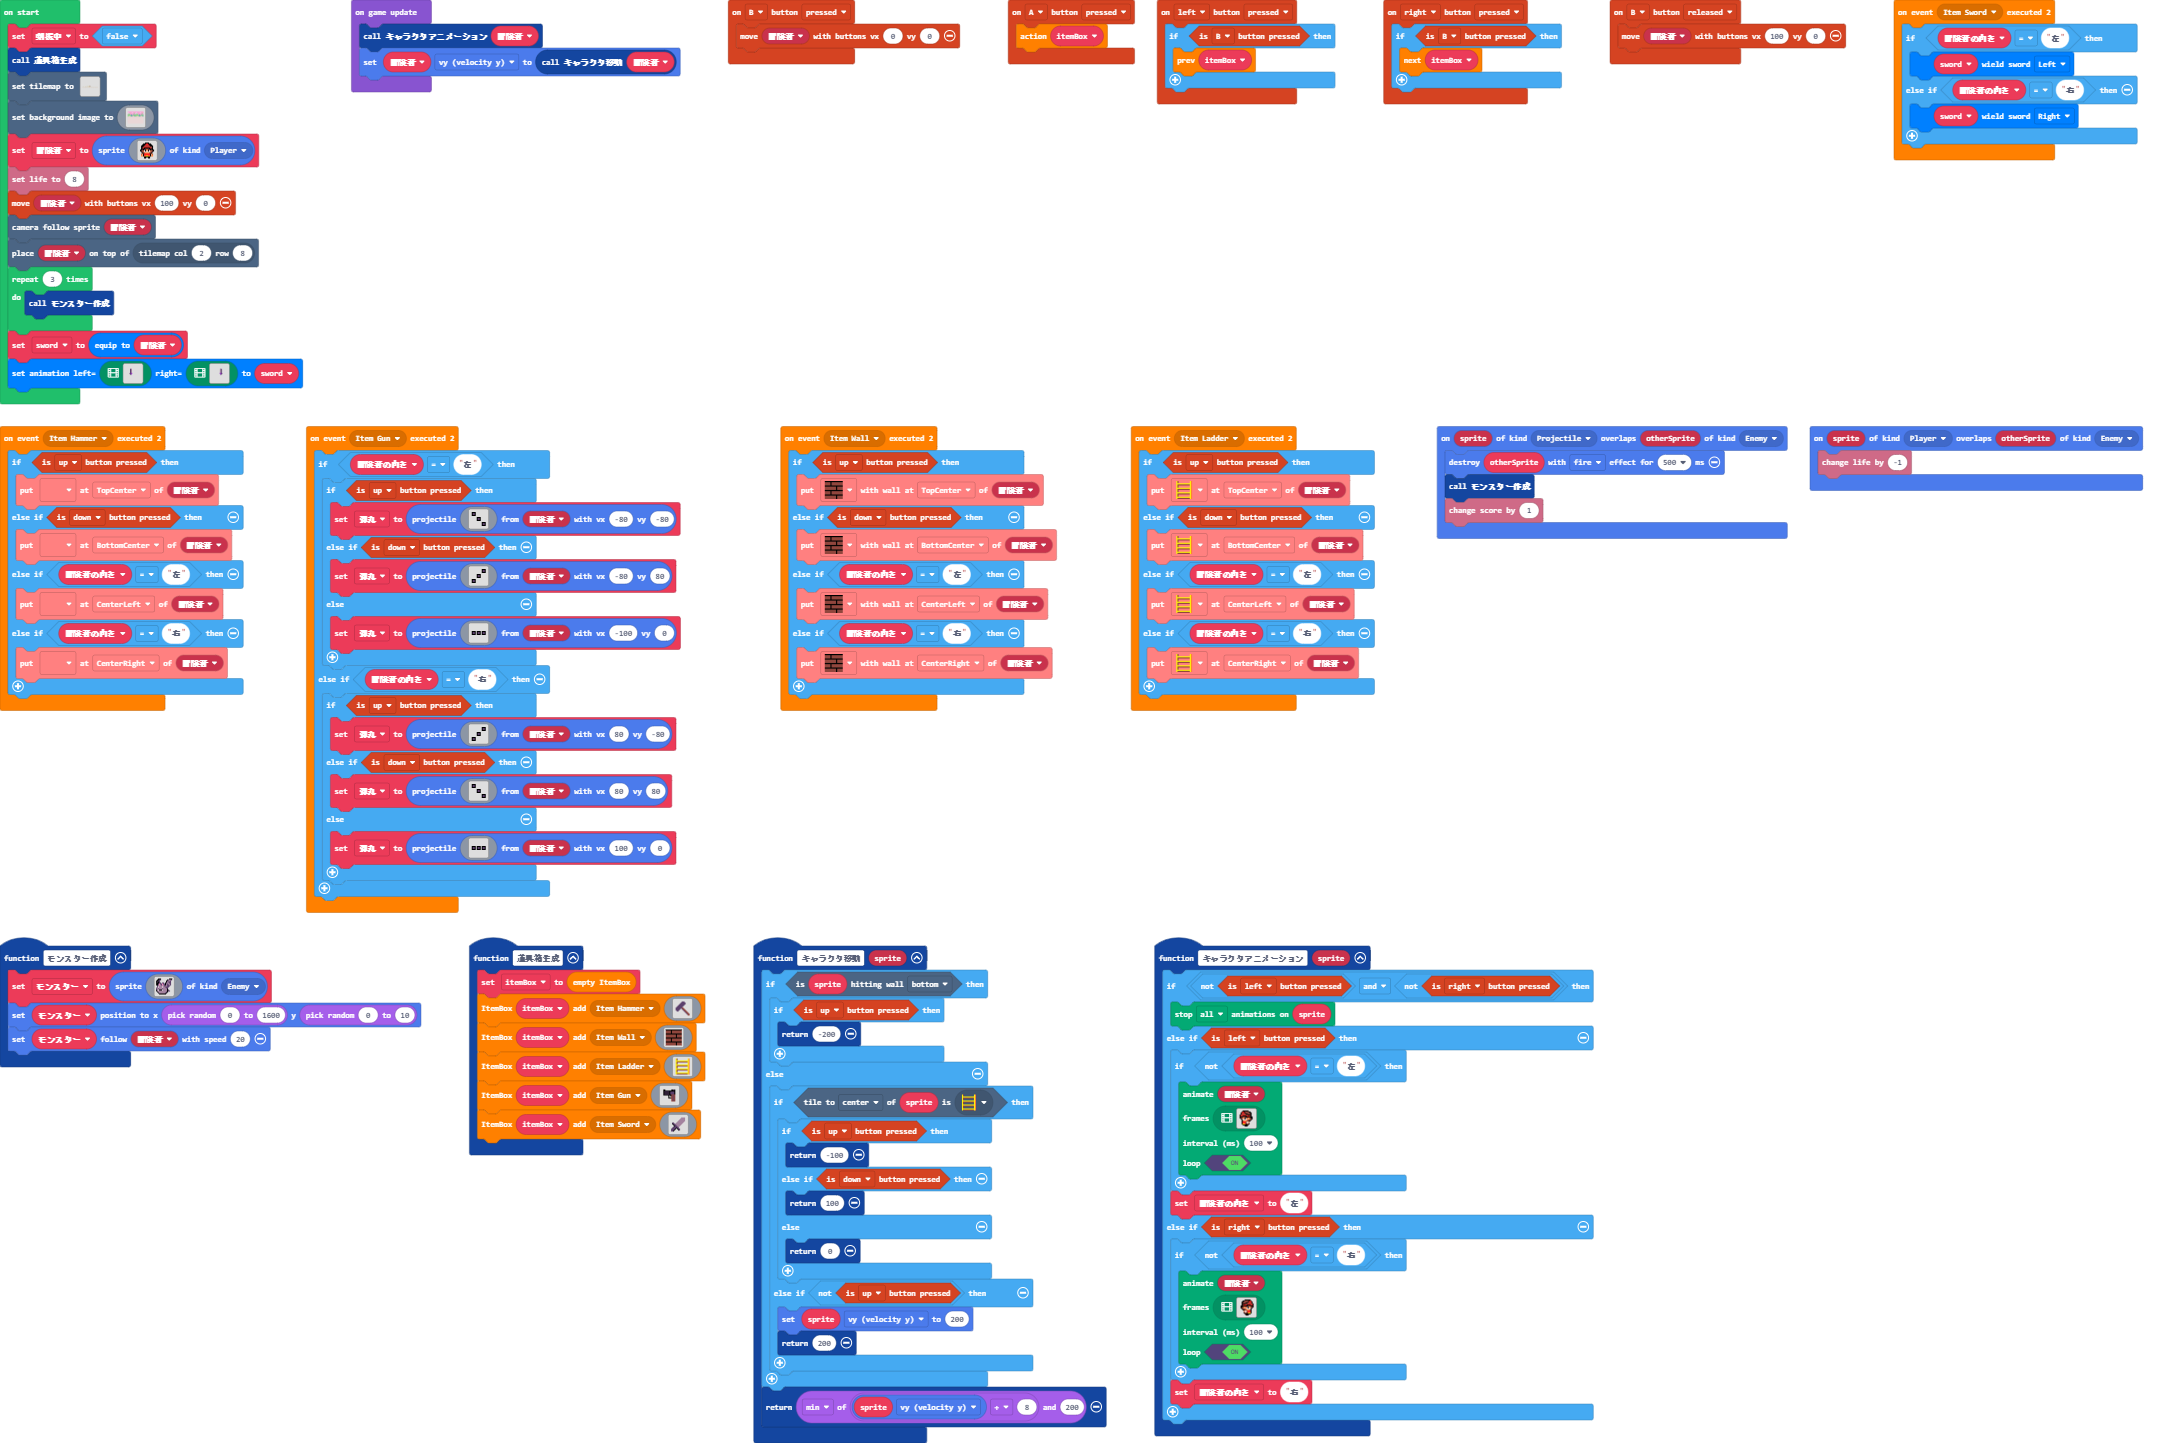
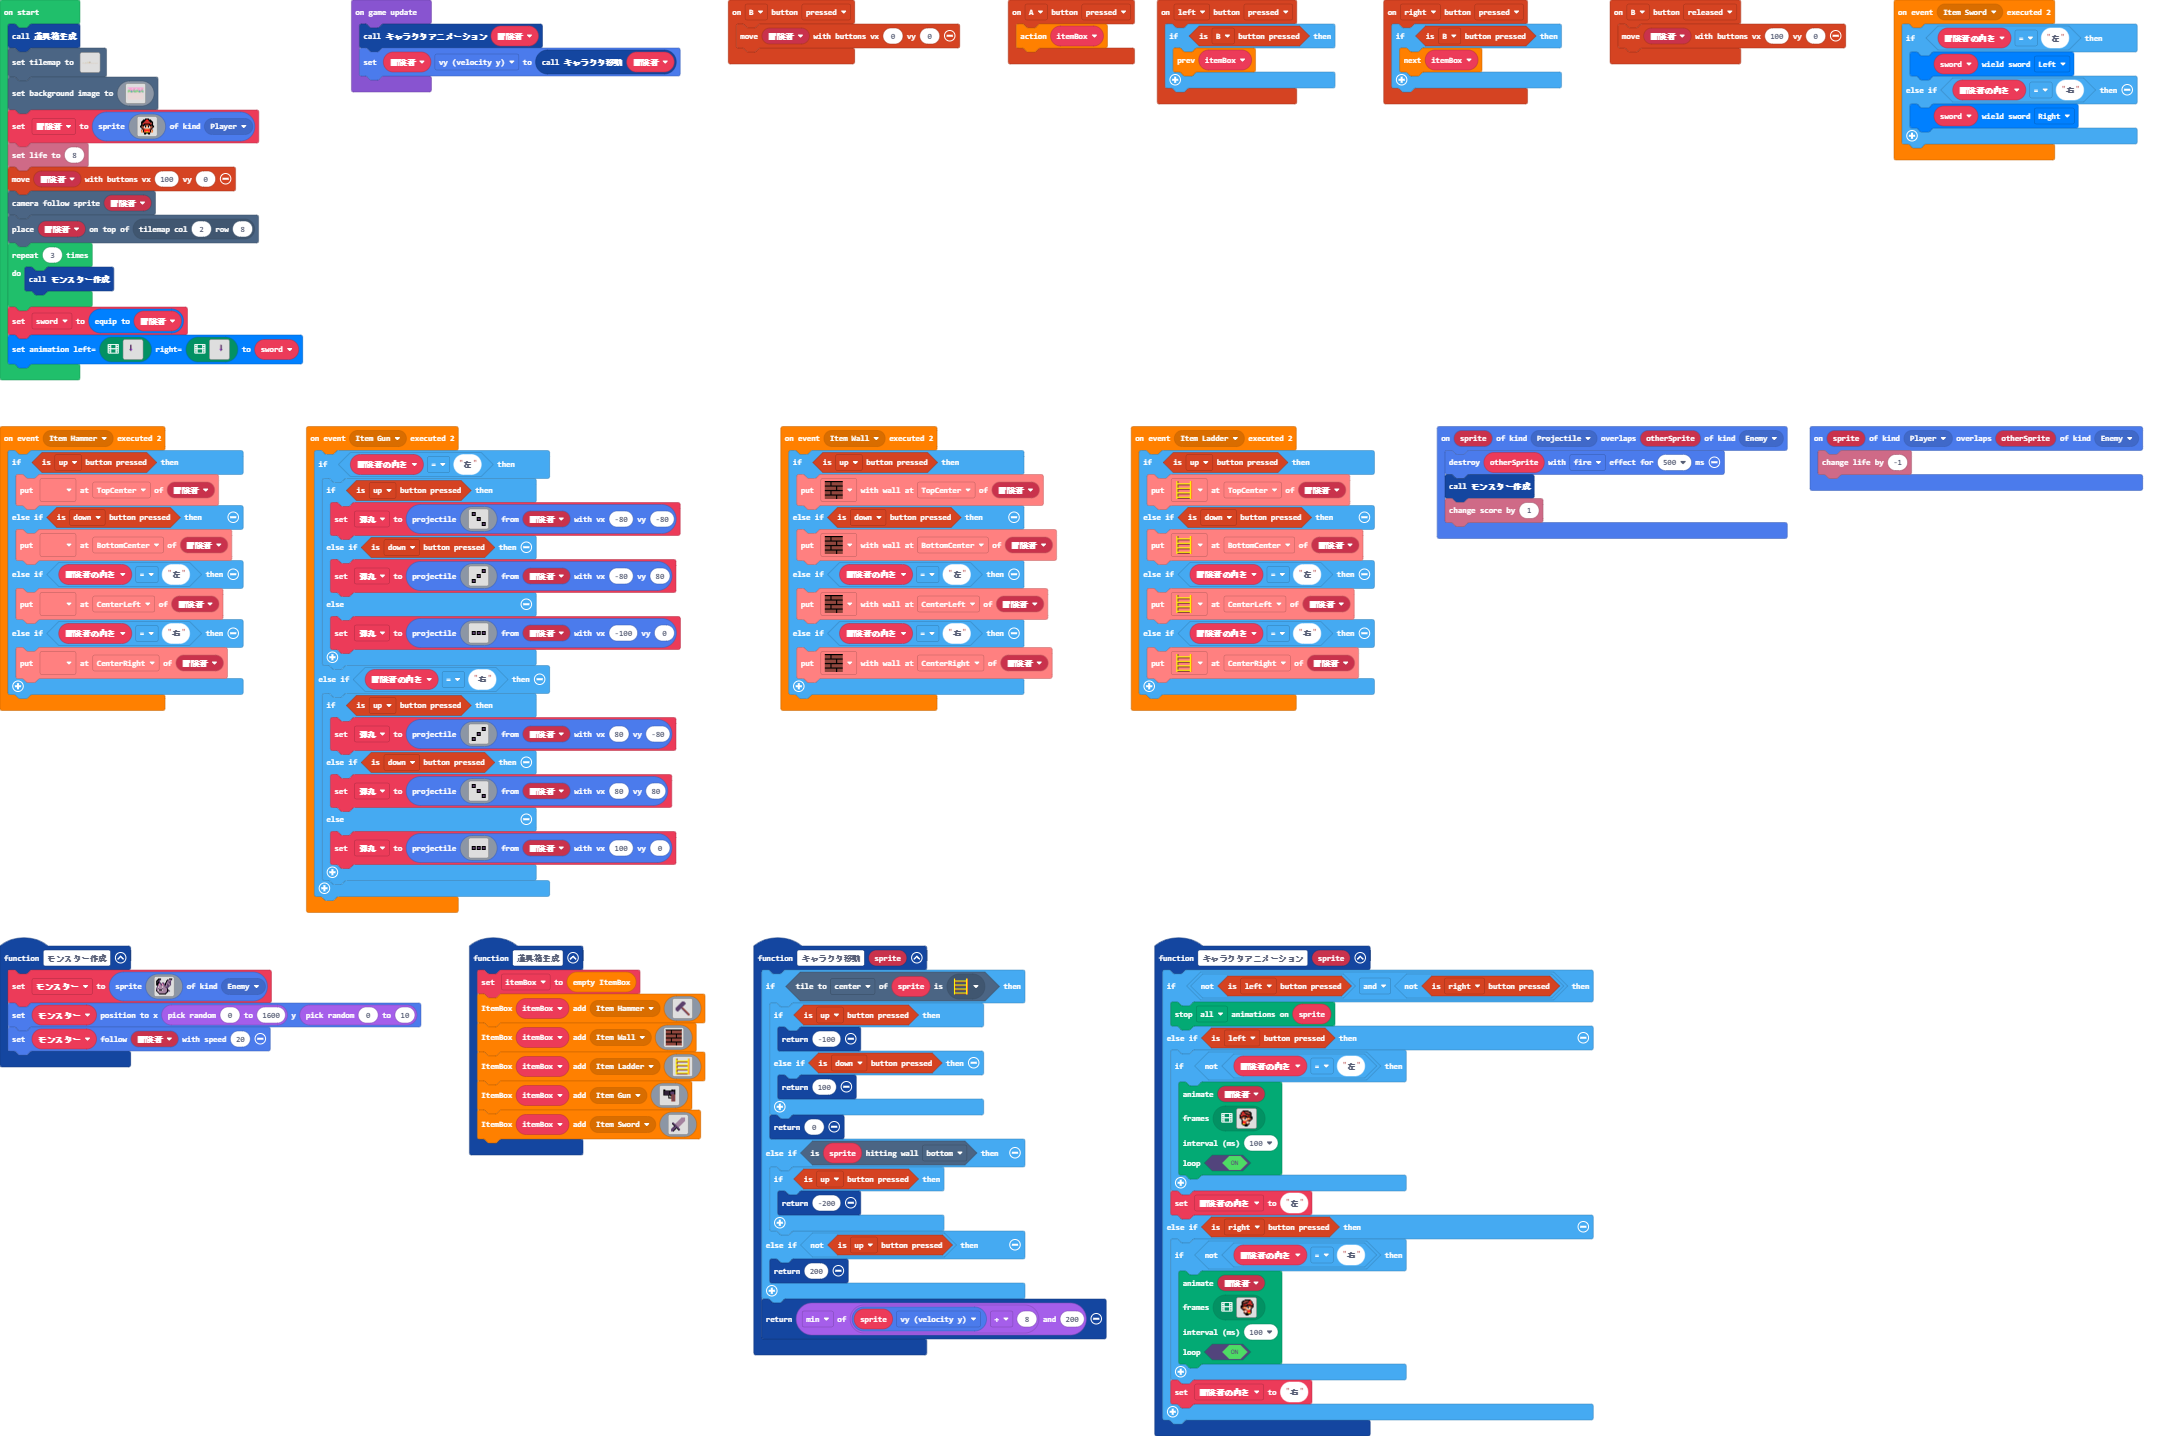
Update main.blocks, main.ts, tilemap.g.jres, tilemap.g.ts

diff --git a/tilemap.g.ts b/tilemap.g.ts
@@ -85,6 +85,44 @@ namespace myTiles {
 . . . . . . . . . . . . . . . . 
 . . . . . . . . . . . . . . . . 
 `, [myTiles.transparency16], TileScale.Sixteen);
+            case "level5":
+            case "level5":return tiles.createTilemap(hex`1000100000000000000000000000000000000000000000000000000000000000000000000000000000000000000000000000000000000000000000000000000000000000000000000000000000000000000000000000000000000000000000000000000000000000000000000000000000000000000000000000000000000000000000000000000000000000000000000000000000000000000000000000000000000000000000000000000000000000000000000000000000000000000000000000000000000000000000000000000000000000000000000000000000000000000000000000000000000000000000000000000000000000000000000000000000000000`, img`
+. . . . . . . . . . . . . . . . 
+. . . . . . . . . . . . . . . . 
+. . . . . . . . . . . . . . . . 
+. . . . . . . . . . . . . . . . 
+. . . . . . . . . . . . . . . . 
+. . . . . . . . . . . . . . . . 
+. . . . . . . . . . . . . . . . 
+. . . . . . . . . . . . . . . . 
+. . . . . . . . . . . . . . . . 
+. . . . . . . . . . . . . . . . 
+. . . . . . . . . . . . . . . . 
+. . . . . . . . . . . . . . . . 
+. . . . . . . . . . . . . . . . 
+. . . . . . . . . . . . . . . . 
+. . . . . . . . . . . . . . . . 
+. . . . . . . . . . . . . . . . 
+`, [myTiles.transparency16], TileScale.Sixteen);
+            case "level6":
+            case "level6":return tiles.createTilemap(hex`1000100000000000000000000000000000000000000000000000000000000000000000000000000000000000000000000000000000000000000000000000000000000000000000000000000000000000000000000000000000000000000000000000000000000000000000000000000000000000000000000000000000000000000000000000000000000000000000000000000000000000000000000000000000000000000000000000000000000000000000000000000000000000000000000000000000000000000000000000000000000000000000000000000000000000000000000000000000000000000000000000000000000000000000000000000000000000`, img`
+. . . . . . . . . . . . . . . . 
+. . . . . . . . . . . . . . . . 
+. . . . . . . . . . . . . . . . 
+. . . . . . . . . . . . . . . . 
+. . . . . . . . . . . . . . . . 
+. . . . . . . . . . . . . . . . 
+. . . . . . . . . . . . . . . . 
+. . . . . . . . . . . . . . . . 
+. . . . . . . . . . . . . . . . 
+. . . . . . . . . . . . . . . . 
+. . . . . . . . . . . . . . . . 
+. . . . . . . . . . . . . . . . 
+. . . . . . . . . . . . . . . . 
+. . . . . . . . . . . . . . . . 
+. . . . . . . . . . . . . . . . 
+. . . . . . . . . . . . . . . . 
+`, [myTiles.transparency16], TileScale.Sixteen);
         }
         return null;
     })

diff --git a/main.ts b/main.ts
@@ -106,23 +106,19 @@ itembox.util.onEvent(ItemKind.Wall, function () {
     }
 })
 function キャラクタ移動 (sprite: Sprite) {
-    if (sprite.isHittingTile(CollisionDirection.Bottom)) {
+    if (sprite.tileKindAt(TileDirection.Center, assets.tile`ハシゴタイル`)) {
+        if (controller.up.isPressed()) {
+            return -100
+        } else if (controller.down.isPressed()) {
+            return 100
+        }
+        return 0
+    } else if (sprite.isHittingTile(CollisionDirection.Bottom)) {
         if (controller.up.isPressed()) {
             return -200
         }
-    } else {
-        if (sprite.tileKindAt(TileDirection.Center, assets.tile`ハシゴタイル`)) {
-            if (controller.up.isPressed()) {
-                return -100
-            } else if (controller.down.isPressed()) {
-                return 100
-            } else {
-                return 0
-            }
-        } else if (!(controller.up.isPressed())) {
-            sprite.vy = 200
-            return 200
-        }
+    } else if (!(controller.up.isPressed())) {
+        return 200
     }
     return Math.min(sprite.vy + 8, 200)
 }
@@ -312,7 +308,6 @@ let itemBox: itembox.items.ItemBox = null
 let モンスター: Sprite = null
 let sword: weapons.sword.Sword = null
 let 冒険者: Sprite = null
-let 剣振中 = false
 道具箱生成()
 tiles.setTilemap(tilemap`level1`)
 scene.setBackgroundImage(img`
